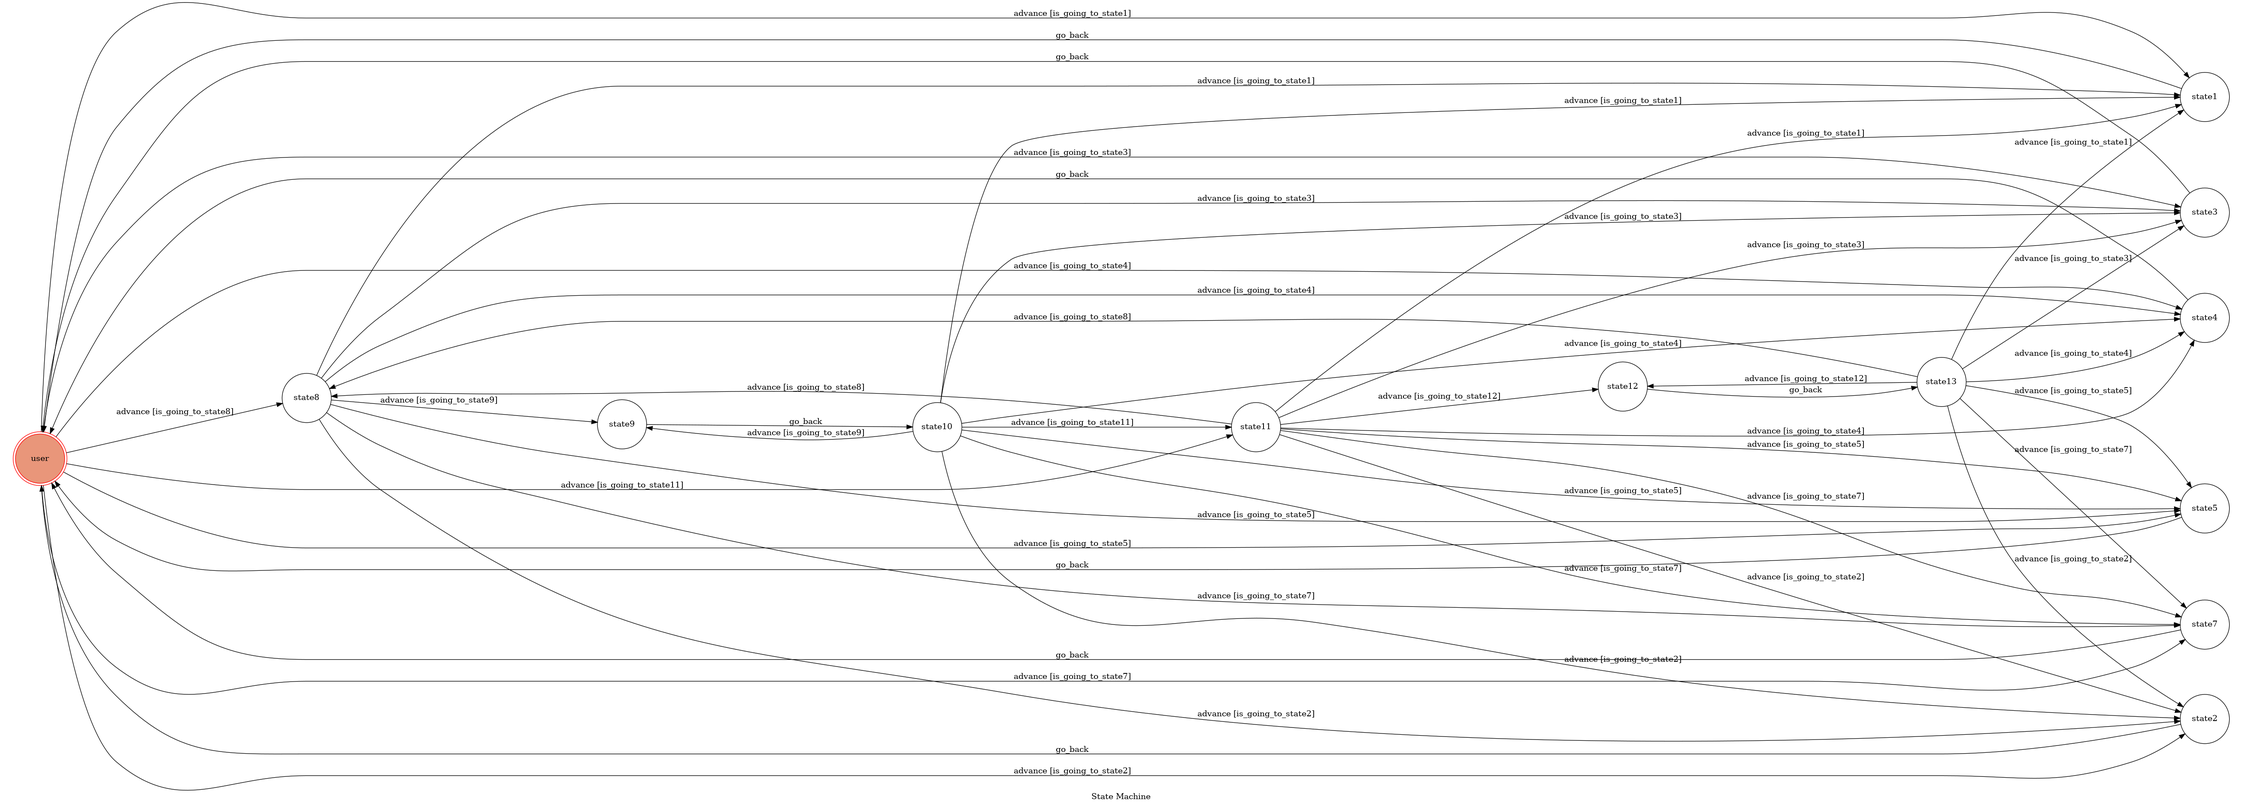
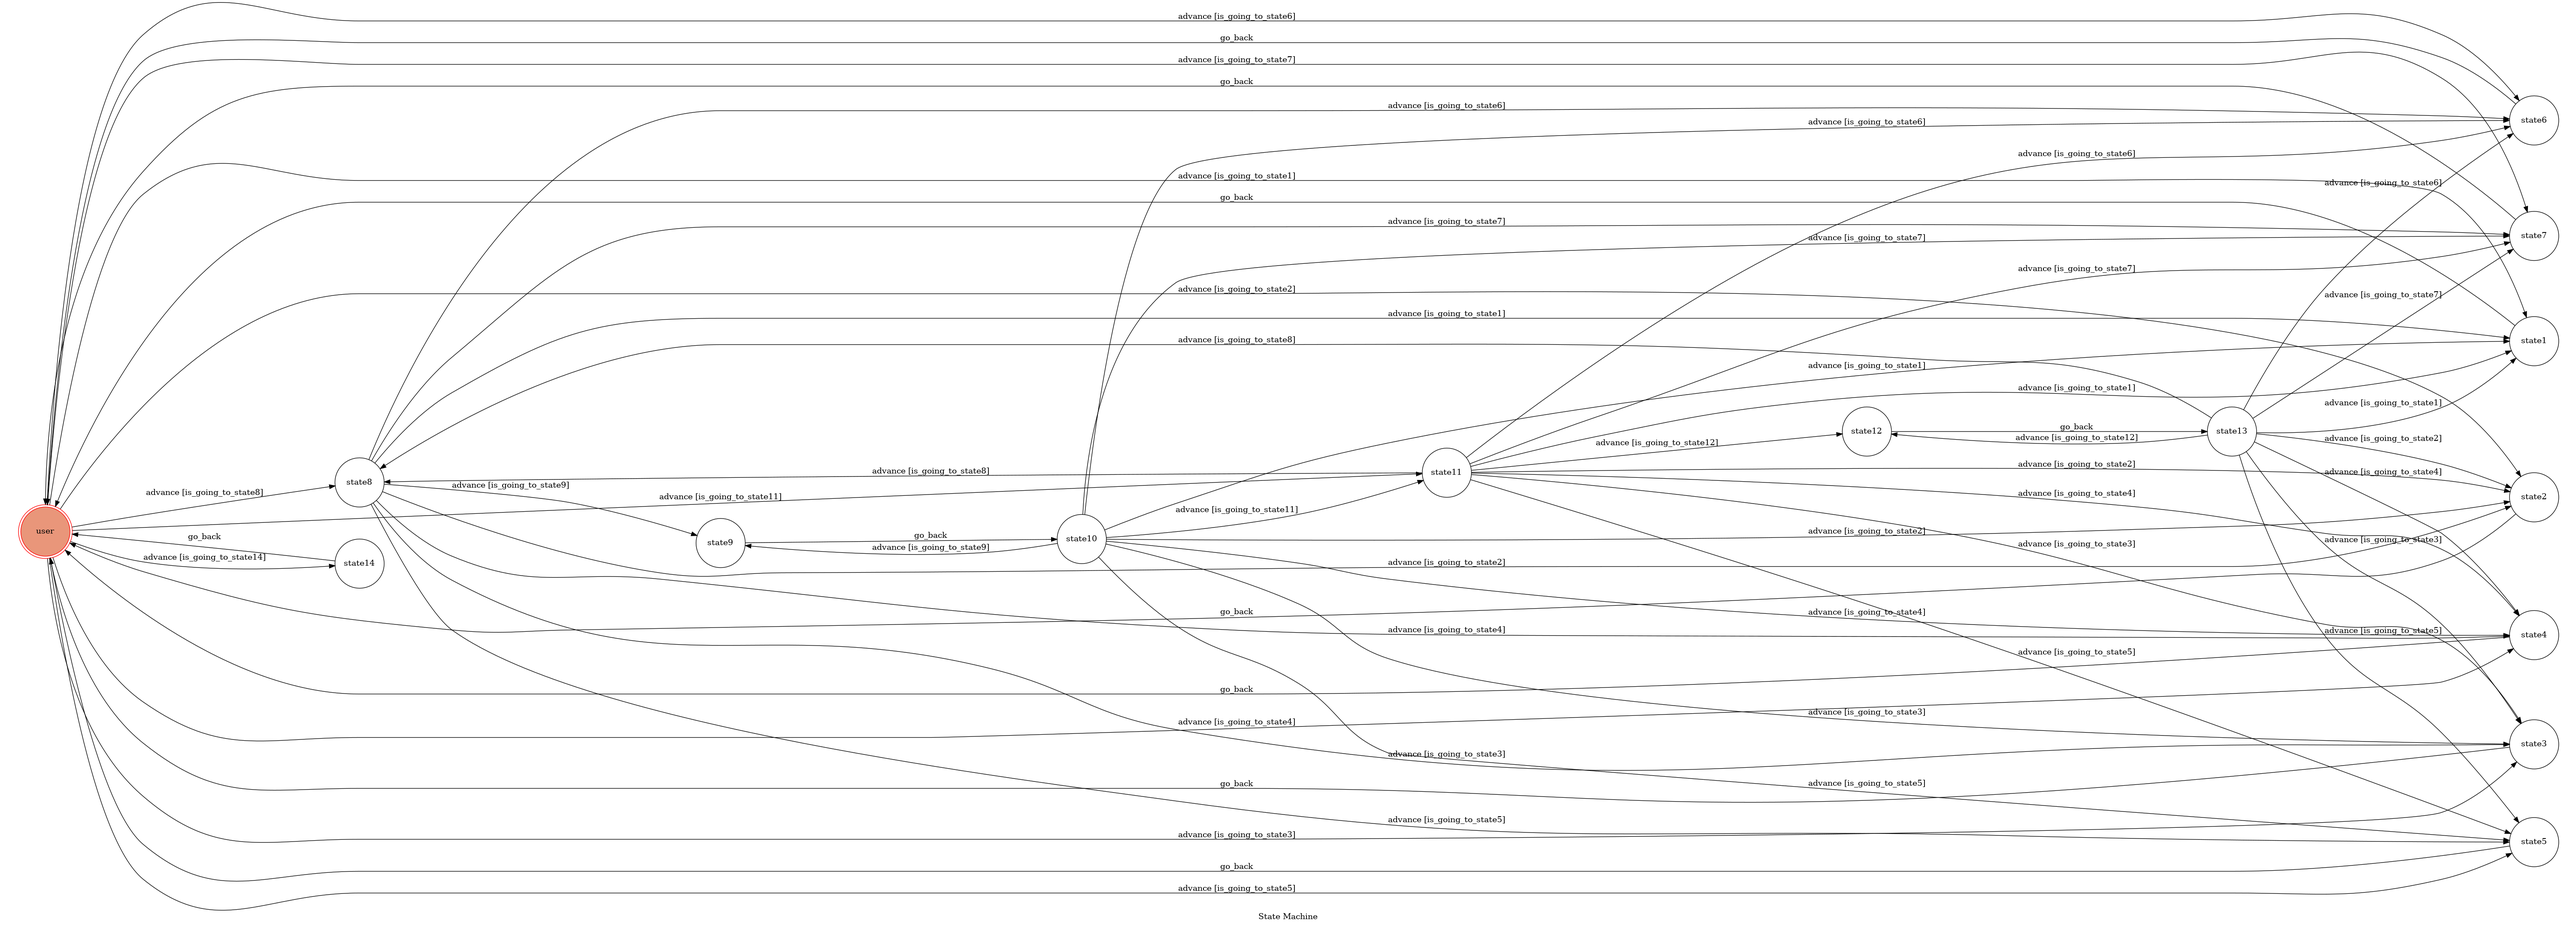
update

diff --git a/fsm.py b/fsm.py
@@ -70,7 +70,13 @@ class TocMachine(GraphMachine):
         answer = (test.encode('UTF-8').isalpha() or test.find("me") != -1 or test.find("present") != -1 or test.find("hey") != -1 or test.find("let") != -1 or test.find("sing") != -1 or test.find("7") != -1 or test.find("got it") != -1 or test.find("last piece") != -1 or test.find("breath") != -1 or test.find("spinning") != -1 or test.find("arrival") != -1 or test.find("departure") != -1 or test.find("turbulence") != -1 or test.find("翻天") != -1)
         print(answer)
         return answer
-        
+
+    def is_going_to_state14(self, event):
+        text = event.message.text
+        print('this is going to state14')
+        print(text)
+        return text.lower() == "雲端連結"
+
     def on_enter_state1(self, event):
         print("I'm entering state2")
         reply_token = event.reply_token
@@ -114,7 +120,7 @@ class TocMachine(GraphMachine):
 
     def on_enter_state3(self, event):
         print("I'm entering state3")
-        schedule = "🗓12.27(日) 一直娛簽售" + '\n' + "時間: 10:00 珍榮" + '\n' + "🗓12/31(四) AIS5GVirtualCountdown慶典" + '\n' + "時間: 19:00" + '\n' + "觀看平台:AISPLAY"
+        schedule = "🗓12/31(四) AIS5GVirtualCountdown慶典" + '\n' + "時間: 19:00" + '\n' + "觀看平台:AISPLAY"
         reply_token = event.reply_token
         send_text_message(reply_token, schedule)
         self.go_back()
@@ -131,7 +137,7 @@ class TocMachine(GraphMachine):
         url4 = 'https://m.weibo.cn/status/4580844591123170?'
         url5 = 'http://curaprox-gda.co.kr/'
 
-        vote = "1、首爾歌謠大賞：⏰1月24日 23:00" + '\n' + "投票教程:" + '\n' + url + '\n' + "投票軟體:The 30th SMA Official Vote APP" + '\n' + "入圍部門:本賞/人氣賞/韓流特別賞/SMA傳奇新人獎" + '\n' + "注意事項:主攻本賞(Main Awards)" + '\n\n' + "2、Gaon： ⏰二輪截止 12月27日 17:00 三輪截止 1月10日 17:00" + '\n' + "投票教程:" + '\n' + url1 + '\n' + "投票軟體: Mubeat" + '\n\n' + "3、WhosFandom Award：⏰三輪截止 12月27日 13:00" + '\n' + "投票教程:" + '\n' + url2 + '\n' +"投票軟體: Whosfan" + '\n' + "注意事項:註冊時須填寫推薦碼 第三輪4進2 採積分制" + '\n\n' + "4、金唱片（大陸區）：⏰12月31日 23:59" + '\n' + "投票教程:" + '\n' + url3 + '\n' + "投票軟體: QQ音樂" + '\n\n' + "5、金唱片（海外區）：⏰12月31日 23:00" + '\n' + "投票教程:" + '\n' + url4 + '\n' + "投票軟體: " + '\n' + url5 + '\n' + "注意事項: 建議使用Chrome"
+        vote = "1、首爾歌謠大賞：⏰1月24日 23:00" + '\n' + "投票教程:" + '\n' + url + '\n' + "投票軟體:The 30th SMA Official Vote APP" + '\n' + "入圍部門:本賞/人氣賞/韓流特別賞/SMA傳奇新人獎" + '\n' + "注意事項:主攻本賞(Main Awards)" + '\n\n' + "2、Gaon： ⏰二輪截止 12月27日 17:00 三輪截止 1月10日 17:00" + '\n' + "投票教程:" + '\n' + url1 + '\n' + "投票軟體: Mubeat" + '\n\n' + "3、金唱片（大陸區）：⏰12月31日 23:59" + '\n' + "投票教程:" + '\n' + url3 + '\n' + "投票軟體: QQ音樂" + '\n\n' + "4、金唱片（海外區）：⏰12月31日 23:00" + '\n' + "投票教程:" + '\n' + url4 + '\n' + "投票軟體: " + '\n' + url5 + '\n' + "注意事項: 建議使用Chrome"
 
         reply_token = event.reply_token
         send_text_message(reply_token, vote)
@@ -154,7 +160,8 @@ class TocMachine(GraphMachine):
     def on_enter_state6(self, event):
         print("I'm entering state6")
         reply_token = event.reply_token  
-        send_text_message(reply_token, "function")
+        tell = "✨功能總覽：" + '\n' + "1.官方帳號(點擊選單第一排第二個)：" + '\n' + "包含官方 & 團員所有社交軟體的帳號" + '\n' + "2.人生語錄(點擊選單第一排第三個)：" + '\n' + "每一位成員有8-9句語錄 隨機回覆充滿驚喜與力量💚" + '\n' + "3.投票總匯(點擊選單第二排第一個)：" + '\n' + "年末回歸不知道要去哪裡投甚麼票嗎?看這裡就對了!" + '\n' + "4.當月行程(點擊選單第二排第二個)：" + '\n' + "即時更新官宣行程 掌握GOT7行程我有💪" + '\n' + "5.隨機圖片(點擊選單第二排第三個)：" + '\n' + "將掉落隨機一張男友照 馬上存起來😍" + '\n' + "6.雲端連結(輸入「雲端連結」：" + '\n' + "含有表情包、男友照、資料庫等相簿 應有盡有!" + '\n' + "7.我要找歌(輸入「我要找歌」)：" + '\n' + "按照指示輸入要找的歌曲 會回覆對應的專輯與發行時間🎵" + '\n' + "8.我要找專輯(輸入「我要找專輯」)：" + '\n' + "按照指示輸入要找的專輯 會回覆該專輯收錄的所有歌曲🎵" + '\n' + "⚠注意事項：" + '\n' + "a.可查詢所有韓專日專歌曲 包含改版專迷你專正規專等" + '\n' + "b.除了歌曲本身即為中文以外 請以歌曲/專輯原本的英文名查詢 no哈德凱瑞no陀螺專no愛的供氧😠" + '\n' + "c.可以連續查詢 不需要每查一次就打一次我要找歌/找專輯 想換別的功能直接按選單就可以了!" + '\n' + "d.如果覺得自己應該沒輸錯但顯示錯誤 可能是現在正在錯誤的狀態 請再打一次「我要找歌」或「我要找專輯」" + '\n' + "e.在查詢過程中如果輸入後沒有立即得到回覆 可以再重新輸入一次(小bug抱歉😭)" + '\n' + "以上注意事項 如果有其他問題請聯絡被窩👇" + '\n' + "IG： ahgaseigot7777 謝謝💕"        
+        send_text_message(reply_token, tell)
         self.go_back()
 
     def on_exit_state6(self):
@@ -210,6 +217,16 @@ class TocMachine(GraphMachine):
         print(song(word))
         send_text_message(reply_token, song(word))
         print("i'm here")
+        self.go_back()
+        
+    def on_exit_state12(self):
+        print("Leaving state12")
+    
+    def on_enter_state14(self,event):
+        print("I'm entering state14")
+        reply_token = event.reply_token
+        url = 'https://drive.google.com/drive/folders/1KBC054JqN4BWR7s-kx5asup632WZnGo5?usp=sharing'
+        send_text_message(reply_token, url)
         self.go_back()
         
     def on_exit_state12(self):

diff --git a/app.py b/app.py
@@ -13,7 +13,7 @@ load_dotenv()
 
 
 machine = TocMachine(
-    states=["user", "state1", "state2", "state3", "state4", "state5", "state6", "state7", "state8", "state9", "state10", "state11", "state12", "state13"],
+    states=["user", "state1", "state2", "state3", "state4", "state5", "state6", "state7", "state8", "state9", "state10", "state11", "state12", "state13", "state14"],
     transitions=[
         {
             "trigger": "advance",
@@ -68,6 +68,12 @@ machine = TocMachine(
             "source": "user",
             "dest": "state11",
             "conditions": "is_going_to_state11",
+        },
+        {
+            "trigger": "advance",
+            "source": "user",
+            "dest": "state14",
+            "conditions": "is_going_to_state14",
         },
         {
             "trigger": "advance",
@@ -289,7 +295,7 @@ machine = TocMachine(
             "dest": "state12",
             "conditions": "is_going_to_state12",
         },
-        {"trigger": "go_back", "source": ["state1", "state2","state3","state4","state5","state6","state7"], "dest": "user"},
+        {"trigger": "go_back", "source": ["state1", "state2","state3","state4","state5","state6","state7","state14"], "dest": "user"},
     ],
     initial="user",
     auto_transitions=False,
@@ -385,4 +391,5 @@ def show_fsm():
 
 if __name__ == "__main__":
     port = os.environ.get("PORT", 8000)
+    machine.get_graph().draw("fsm.png", prog="dot", format="png")
     app.run(host="0.0.0.0", port=port, debug=True)

diff --git a/song.py b/song.py
@@ -91,7 +91,8 @@ def album(text) :
     elif year <= 206 and year >= 203:
         return "THE New Era 2018年6月20日 日語單曲"  
     else:
-        return "Not found Yet" 
+        wrong = "沒有找到唷😢" + '\n' + "可能無法查詢的原因:" + '\n' + "把Gimme打成Give me" + "把Moon U打成Moon You" + '\n' + "把Run Away打成Runaway" + '\n' + "把GOT ur LUV打成GOT Your love" + '\n' + "把Hey Yah打成Hey Yeah" + '\n' + "把Sing For U打成Sing for you" + '\n' + "把Feels Good打成Feel Good" + '\n' + "把Every Day打成Everyday" + '\n' + "把She's A Monster打成She is A Monster" + '\n' + "把O.M.G打成OMG" + '\n' + "把U Got Me打成You got me" + '\n' + "把Degree打成1 degree" + '\n' + "把97 YOUNG & RICH打成97 YOUNG and RICH" + '\n' + "把Over & Over打成Over and Over" + '\n' + "把Crash & Burn打成Crash and Burn"
+        return wrong 
 
 
 

diff --git a/t.py b/t.py
@@ -153,7 +153,7 @@ def song(word):
             result = result + str(count) + '.' + song[i]+'\n'
             count += 1
     else:
-        result = result + 'not found'
+        result = result + '沒有找到唷😢請再確認一次是否輸入正確！'
 
     return result
     
